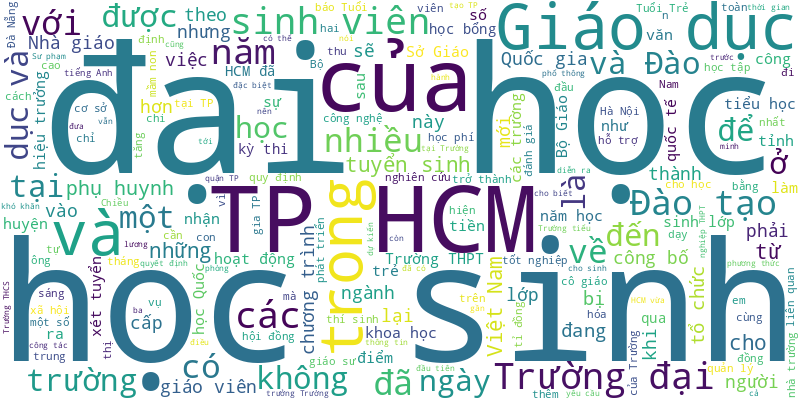
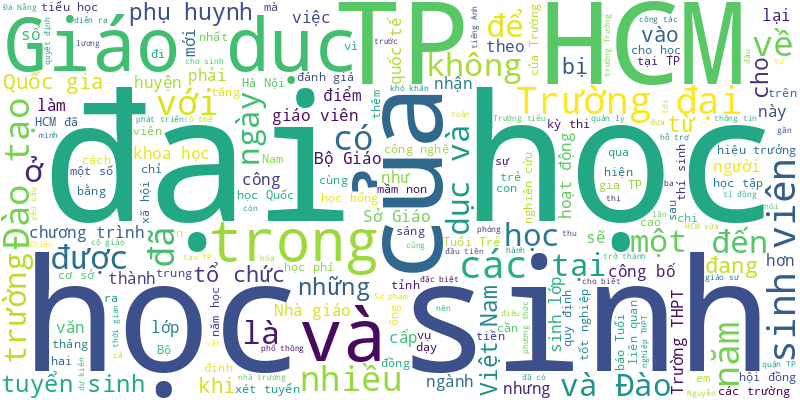
🍀 = 100%

diff --git a/README.md b/README.md
@@ -1,6 +1,13 @@
 # Tuoi Tre RSS 
 
 ## Giáo dục 
+- Học sinh Trường Quốc tế Á Châu (Asian School) đạt hai giải Nhì và ba giải Ba tại Cuộc thi Khoa học Kỹ thuật cấp thành phố.
+- Kỳ thi đánh giá tuyển sinh Công an nhân dân năm 2025 sẽ có 4 mã bài thi, thay vì 2 mã bài thi như năm ngoái.
+- Trong buổi học cuối trước Tết, Minh Đức vỡ òa cảm xúc khi biết đã đạt thành tích thủ khoa kỳ thi đánh giá tư duy đợt 1 của Đại học Bách khoa Hà Nội.
+- Trường đại học Thủ Dầu Một, tỉnh Bình Dương đã hoàn thành thủ tục hoàn trả cho hơn 10.000 sinh viên, học viên trong vụ thu sai 37 tỉ đồng học phí.
+- Để chuẩn bị cho ngọn lửa tri thức lưu truyền xuyên thế hệ, từ tháng 12-2023 Trường THPT Lê Quý Đôn TP.HCM đã có chuyến về nguồn 'vô tiền khoáng hậu'...
+- Học bổng toàn phần Chính phủ Úc dành cho ứng viên Việt Nam gồm nông - lâm - ngư nghiệp, chuyển đổi số, giáo dục, công nghệ thông tin (chỉ dành cho người khuyết tật), môi trường, biến đổi khí hậu...
+- "Vé máy bay tôi đã mua rồi, chỉ còn một ngày nữa là bay về quê. Nhưng đến hôm nay mà hai con gái của tôi vẫn giữ nguyên ý định không về quê ăn Tết".
 - Thủ khoa kỳ thi đánh giá tư duy đợt 1 năm 2025 của Đại học Bách khoa Hà Nội thuộc về thí sinh đến từ Trường THPT chuyên Bắc Ninh.
 - Người cha hy sinh trong lúc làm nhiệm vụ khi Cao Diễm Quỳnh đang học lớp 4. Vượt qua cú sốc đầu đời, Quỳnh quyết tâm, nỗ lực để học tập tốt.
 - Năm qua, sinh viên ngành Khoa học máy tính của Trường Đại học Quốc tế Sài Gòn (SIU) đạt nhiều giải thưởng tại các cuộc thi học thuật và nghiên cứu.
@@ -994,16 +1001,51 @@
 - Chủ trương đưa tiếng Anh thành ngôn ngữ thứ hai trong trường học là chủ trương đúng đắn, phù hợp với điều kiện Việt Nam trong bối cảnh toàn cầu hóa. Nhưng chủ trương này sẽ gặp không ít thách thức cần được hóa giải.
 - Vụ cô giáo 'xin' phụ huynh hỗ trợ mua laptop để giảng dạy nhanh chóng trở thành tâm điểm dư luận và dấy lên nhiều tranh luận.
 - Phiên chất vấn giả định "Quốc hội trẻ em" đặt ra vấn đề có thật, không dễ chấm dứt trong học đường.
-- Một phụ huynh lái ô tô vào sân Trường THCS-THPT Chu Văn An (TP Móng Cái, Quảng Ninh) rồi tông trúng một học sinh đi xe đạp điện.
-- Hàng chục trường hợp học sinh lái xe khi chưa đủ tuổi, không đội mũ bảo hiểm... bị cảnh sát xử lý trong chiều 1-10 tại quận Long Biên (Hà Nội).
-- Tối 1-10, Sở Giáo dục và Đào tạo TP.HCM đã công bố cấu trúc đề thi tuyển sinh lớp 10 theo chương trình mới.
-- Ngày 1-10, ông Nguyễn Quang Thạch - sáng lập phong trào Sách hóa nông thôn Việt Nam - bắt đầu hành trình đi bộ vận động Sách về nông thôn Ấn Độ lần thứ 2.
-- Sau sự việc, Phòng Giáo dục và Đào tạo huyện Thanh Oai yêu cầu học sinh không nhận đồ ăn, thức uống từ người lạ.
-- Trong khuôn khổ chuyến thăm cấp Nhà nước tới Mông Cổ, sáng 1-10, Tổng Bí thư, Chủ tịch nước Tô Lâm cùng Đoàn đại biểu cấp cao Việt Nam đã đến thăm Trường liên cấp số 14 mang tên Chủ tịch Hồ Chí Minh tại thủ đô Ulan Bator.
-- Sáng 1-10, ông Võ Cao Long - trưởng Phòng Giáo dục và Đào tạo quận 1, TP.HCM - chính thức cung cấp thông tin cho báo chí liên quan đến vụ việc cô giáo 'xin hỗ trợ mua laptop' xảy ra tại Trường tiểu học Chương Dương.
 ![Edu](Edu.png)
 ## Thời Sự 
-- Sáng 24-1 (tức ngày 25 tháng Chạp) hàng ngàn xe máy, ô tô bị ùn ứ tại hai đầu đường dẫn lên cầu Rạch Miễu.
+- Bí thư Thành ủy TP.HCM Nguyễn Văn Nên, Bộ trưởng Bộ Xây dựng Nguyễn Thanh Nghị dâng hương tại Nghĩa trang Liệt sĩ TP.HCM.
+- Chính phủ nhiệm kỳ 2021 - 2026 sẽ được tinh gọn còn 14 bộ, 3 cơ quan ngang bộ, 5 cơ quan thuộc Chính phủ.
+- Tờ mờ sáng 25-1, hơn 1.000 công nhân và gia đình về quê trong chương trình chuyến xe hạnh phúc hoàn toàn miễn phí do công đoàn tổ chức.
+- Ông Vũ Hồng Văn, phó chủ nhiệm Ủy ban Kiểm tra Trung ương, được điều động, chỉ định giữ chức Bí thư Tỉnh ủy Đồng Nai.
+- Từ đêm nay, Bắc Bộ sẽ đón đợt không khí lạnh rất mạnh, trời chuyển mưa rét. Nam Bộ thời tiết ngày nắng, Trung Bộ nhiều mây.
+- 9 chuyến xe Công đoàn xuất phát từ Bình Phước đưa hàng trăm công nhân ra các tỉnh miền Trung, miền Bắc đón Tết, sum họp cùng gia đình.
+- Trường hợp bãi rác Đa Phước ngừng nhận rác, rác sẽ được điều phối về bãi chôn lấp số 3 - khu liên hợp xử lý chất thải Tây Bắc, huyện Củ Chi (TP.HCM).
+- Cùng với sàn nhạc nước nghệ thuật, quảng trường 29-3 (Đà Nẵng) đang được tô điểm thêm màu sắc sặc sỡ của hoa Tết. Người dân tới vui chơi tấp nập.
+- Chen chúc, nhích từng chút để chờ làm thủ tục tại sân bay Tân Sơn Nhất. Bên trong nhà ga khan ghế ngồi, khách nằm vật vạ dưới đất để chờ hãng thông báo giờ bay mới sau nhiều giờ chậm chuyến (delay).
+- Trong lúc nhóm công nhân nhà máy xi măng ở Nghệ An làm việc thì xảy ra vụ tai nạn lao động làm 3 người tử vong.
+- Bộ Chính trị có quyết định điều động, phân công, bổ nhiệm ông Phạm Đại Dương - bí thư Tỉnh ủy Phú Yên - giữ chức vụ phó trưởng Ban Kinh tế Trung ương.
+- Ngày 24-1 (tức 25 tháng chạp) nhiều công ty, xí nghiệp tại TP.HCM và các tỉnh miền Đông cho công nhân bắt đầu nghỉ Tết, nhiều nhà xe tranh thủ quay đầu để kịp rước khách nên cao tốc TP.HCM - Trung Lương hướng từ các tỉnh miền Tây lên TP.HCM bị ùn ứ.
+- Vụ tai nạn liên hoàn giữa xe máy, xe ô tô, xe khách và xe tải trên quốc lộ 1 qua thị xã Ninh Hòa, Khánh Hòa làm 1 người bị thương.
+- Thủ tướng Chính phủ vừa phê chuẩn kết quả bầu chức danh phó chủ tịch UBND tỉnh Đồng Nai nhiệm kỳ 2021-2026 với ông Hồ Văn Hà, giám đốc Sở Xây dựng.
+- Thông tin từ Bộ Y tế cho hay nguyên bộ trưởng Bộ Y tế Nguyễn Quốc Triệu đã qua đời lúc hơn 17h chiều 24-1 tại Hà Nội.
+- Chiều 24-1, đám cháy lớn xuất phát từ xưởng gỗ trên đường số 7, phường Long Thạnh Mỹ, TP Thủ Đức (TP.HCM). Nhìn từ xa có thể thấy cột khói bốc cao hàng chục mét.
+- Chiều 24-1, Tổng Bí thư Tô Lâm có bài phát biểu quan trọng bế mạc Hội nghị Ban Chấp hành Trung ương Đảng khóa XIII sau gần 2 ngày làm việc.
+- Chiều 24-1, người dân bắt đầu kỳ nghỉ Tết Nguyên đán. Đường phố TP.HCM càng về chiều càng đông, cuộc xuân vận bắt đầu diễn ra.
+- Chiều 24-1 (25 tháng chạp), đại diện Phòng cảnh sát giao thông (PC08) Công an TP.HCM dự báo chiều cùng ngày và sáng mai (25-1) tình hình giao thông tại các tuyến đường dẫn lên cao tốc sẽ diễn biến phức tạp.
+- Thứ trưởng Bộ Công Thương Phan Thị Thắng lưu ý các đơn vị triển khai kế hoạch cung cấp điện vào dịp Tết Ất Tỵ và chuẩn bị từ sớm kế hoạch cung cấp điện vào mùa khô 2025 cho người dân TP.HCM.
+- Trưởng Ban Dân vận Tỉnh ủy Bắc Giang Phạm Văn Thịnh được HĐND tỉnh Bắc Giang khóa XIX bầu làm phó chủ tịch UBND tỉnh Bắc Giang.
+- Lực lượng Cảnh sát biển của Việt Nam và Campuchia mong muốn tiếp tục duy trì mối quan hệ truyền thống tốt đẹp, phối hợp giữ gìn an ninh, an toàn trên biển hai nước.
+- Kết thúc buổi làm việc cuối cùng, người dân ùn ùn rời Hà Nội để về quê nghỉ Tết. Cửa ngõ phía nam thành phố đông nghẹt người và xe.
+- Gạo, mì, nước mắm, nước tương và một số loại rau củ (bầu, bí, rau cải xanh) miễn phí đã đến tay người nghèo ở vùng đất biển Kiên Giang.
+- Tổng Bí thư Tô Lâm đề nghị khẩn trương triển khai đề án tiếp tục sắp xếp tinh gọn tổ chức bộ máy công an địa phương.
+- Trung ương Đảng cho ý kiến về giới thiệu nhân sự lãnh đạo một số cơ quan nhà nước nhiệm kỳ 2021 - 2026 để Bộ Chính trị chính thức giới thiệu Quốc hội bầu, phê chuẩn theo quy định.
+- Công an TP Đông Hà phát hiện trên một xe tải đang đỗ ở ga Đông Hà có 640 bình khí N2O (khí bóng cười).
+- Ngày 24-1, Bệnh viện Bạch Mai thông tin đang điều trị cho 32 học sinh trú tại TP Tuyên Quang nghi ngộ độc thuốc diệt chuột.
+- Người dân về quê đón Tết hoặc người lao động khi đi ngang qua tuyến quốc lộ 14B sẽ gặp một điểm hỗ trợ của cảnh sát giao thông Đà Nẵng.
+- Ngày đầu nghỉ Tết Nguyên đán Ất Tỵ, nhà thờ Con Gà Đà Nẵng rực rỡ với những nàng thơ trong tà áo dài duyên dáng.
+- Trưa 24-1, rào chắn ở nút giao Nguyễn Văn Linh - Nguyễn Hữu Thọ đã tháo dỡ, qua đó trả lại toàn bộ lối đi, hướng quận 7 đi huyện Nhà Bè.
+- Công an huyện Hàm Tân, tỉnh Bình Thuận đã thông báo kết quả xác minh giải quyết nội dung của bà Nguyễn Thị Tố Tâm tố cáo đại úy Nguyễn Thanh Bình.
+- Mỗi ngày có tới 700 xe 'quên nạp tiền' để qua trạm thu phí cao tốc TP.HCM - Long Thành - Dầu Giây, khiến tình trạng kẹt xe phức tạp hơn.
+- Sở Tài nguyên và Môi trường TP.HCM cho biết tới hôm nay tình hình hoạt động tại bãi rác Đa Phước đã ổn định.
+- Lực lượng công an ở tỉnh Quảng Nam vừa phát hiện, bắt quả tang và xử lý một tụ điểm sinh hoạt hội thánh Đức Chúa trời mẹ.
+- Giám đốc Ban điều hành dự án cầu Rạch Miễu 2 cho biết các nhà thầu đã bắt đầu thảm những mét bê tông nhựa mặt đường dẫn lên cầu.
+- Sáng 24-1, phó bí thư Thành ủy, Chủ tịch Ủy ban MTTQ Việt Nam TP.HCM Nguyễn Phước Lộc đã dự ngày hội Xuân tại TP Thủ Đức.
+- Ủy ban Kiểm tra Trung ương tổ chức hội nghị công bố về việc Trung ương bầu ông Nguyễn Duy Ngọc làm chủ nhiệm ủy ban và bầu bổ sung 2 phó chủ nhiệm ủy ban.
+- Chủ tịch nước Lương Cường đã ký quyết định truy tặng danh hiệu Anh hùng Lực lượng vũ trang nhân dân cho 8 cá nhân.
+- Những hộ dân từng di dời nhà nhường chỗ cho các dự án lớn tại TP.HCM đang hân hoan niềm vui đón cái Tết đầu tiên tại khu tái định cư.
+- Không khí lạnh mạnh tràn về khiến thời tiết miền Bắc có mưa, rét đậm trước Tết, trong Tết chỉ còn rét sâu về đêm và sáng, ngày nắng ấm.
+- Từ sáng sớm, hàng trăm tiểu thương đã có mặt tại cảng cá lớn nhất Hà Tĩnh để mua bán những mẻ cá tươi từ các tàu thuyền mới vào bờ để đem bán tại thị trường trong và ngoài tỉnh.
+- Sáng 24-1 (tức ngày 25 tháng chạp) hàng ngàn xe máy, ô tô bị ùn ứ tại hai đầu đường dẫn lên cầu Rạch Miễu.
 - Cầu phao Phong Châu (tỉnh Phú Thọ) duy trì hoạt động xuyên đêm giao thừa để phục vụ người dân vui xuân, đón Tết Ất Tỵ.
 - Việc công bố các quyết định liên quan đến sắp xếp, tinh gọn bộ máy cấp tỉnh, huyện sẽ được thực hiện từ ngày 18 đến 20-2-2025.
 - Mùa xuân đang gõ cửa mọi nhà, Tuổi Trẻ ghi lại những dòng thời sự và suy nghĩ từ quý bạn đọc, cùng nhìn lại những thay đổi trong năm qua và cùng hướng về năm mới, mong chờ những thành tựu mới trong năm 2025.
@@ -1962,48 +2004,6 @@
 - Kể từ 0h sáng 5-1, cao tốc Diễn Châu - Bãi Vọt sau hơn nửa năm thông xe sẽ đưa vào vận hành khai thác, thu phí.
 - Tỉnh Quảng Nam yêu cầu đẩy nhanh tiến độ thực hiện 3 dự án khu đô thị do Công ty Bách Đạt An làm chủ đầu tư.
 - Sáng sớm 2-1, các phường mới sau sáp nhập tại TP.HCM rộn ràng công tác tiếp đón nhân dân, khởi đầu một năm mới hoạt động 'tinh gọn, hiệu lực, hiệu quả' hơn.
-- Trong ngày đầu tiên tuyến metro số 1 (Bến Thành - Suối Tiên) áp dụng bằng thẻ từ và mã QR, đông đảo người dân đã đến để trải nghiệm sự tiện lợi của phương thức này.
-- Bị cảnh sát giao thông 'tuýt còi', nhiều người vi phạm nêu đủ mọi lý do để giải thích. Có người nói chưa nghe mức phạt mới tăng cao.
-- Làm việc online theo hướng dẫn, cô gái nhận được 148.000 đồng hoa hồng, nhưng trong 12 lần chuyển tiền sau đó bị chiếm đoạt hơn 836 triệu đồng.
-- Sau khi áp dụng nghị định 168/2024 tăng mức phạt giao thông, hy vọng người dân sẽ chạy xe cẩn thận hơn trước.
-- Cơ quan Trung ương Hội Nông dân Việt Nam sau sắp xếp, tinh gọn bộ máy giảm 7 đầu mối cấp vụ (từ 15 đầu mối xuống còn 8 đầu mối, tương đương 46,67%).
-- Bác sĩ Bệnh viện Chợ Rẫy chẩn đoán nạn nhân bị đánh ngất xỉu sau va quẹt ở Bình Dương hôn mê sâu, tiên lượng tử vong.
-- Sau hơn 12 giờ lai kéo, tàu 991, Hải đội 418, Lữ đoàn tàu ngầm 189 đã cứu hộ thành công tàu Petrolimex 11 nặng 40.000 tấn gặp nạn.
-- Ông Nguyễn Việt Oanh - phó bí thư Tỉnh ủy - được bầu giữ chức chủ tịch UBND tỉnh Bắc Giang và bà Nguyễn Thị Hương - phó bí thư thường trực Tỉnh ủy - được bầu giữ chức chủ tịch HĐND tỉnh, nhiệm kỳ 2021-2026.
-- Sáng 2-1, Bộ Quốc phòng đã tổ chức trao quyết định của Chủ tịch nước cho 8 sĩ quan quân đội lên đường đi làm nhiệm vụ gìn giữ hòa bình Liên hợp quốc tại các phái bộ thuộc Nam Sudan và Cộng hòa Trung Phi.
-- Ban chỉ đạo xây dựng và phát triển Trung tâm tài chính TP.HCM được thành lập do Bí thư Thành ủy TP.HCM Nguyễn Văn Nên làm trưởng ban, với 29 thành viên.
-- Xe bán tải đang chạy trên cao tốc TP.HCM - Long Thành - Dầu Giây, đoạn qua TP Thủ Đức (TP.HCM) bất ngờ bốc cháy dữ dội. May mắn là tài xế kịp đánh xe vào làn khẩn cấp.
-- Sáng 2-1, Thủ tướng Phạm Minh Chính đã chủ trì phiên họp thứ 7 về 'Tổng kết việc thực hiện nghị quyết số 18-NQ/TW Trung ương khóa XII về tiếp tục đổi mới, sắp xếp tổ chức bộ máy của hệ thống chính trị tinh gọn, hoạt động hiệu lực, hiệu quả'.
-- Trước tình trạng một số bệnh viện xuống cấp trầm trọng, Sở Y tế TP.HCM đề xuất ưu tiên nâng cấp, cải tạo, xây mới ba bệnh viện để nâng cao chất lượng khám, chữa bệnh.
-- Lần đầu tiên Bộ Tài nguyên và Môi trường công bố kịch bản nguồn nước ở một số lưu vực sông lớn. Vì sao?
-- Những trường hợp vi phạm đều được cảnh sát giao thông TP.HCM xử lý nghiêm và không có ngoại lệ với bất kỳ trường hợp nào.
-- Nhiều shipper để hàng hóa trên xe che khuất biển số bị cảnh sát giao thông TP.HCM lập biên bản, hành vi này mới được áp dụng trong nghị định 168/2024.
-- Công an đang điều tra nghi án xe tải chở củi gây tai nạn chết người ở Bình Phước đã rời khỏi hiện trường, vượt gần 150km đến Đồng Nai giao hàng.
-- Năm 2024, thu ngân sách quận Bình Tân (TP.HCM) đạt hơn 5.000 tỉ đồng (đạt 135,5% chỉ tiêu) và giải ngân đầu tư công đạt hơn 3.200 tỉ (đạt 100,45% kế hoạch).
-- UBND TP.HCM vừa có chỉ thị về tăng cường kỷ cương hành chính, quyết tâm hoàn thành nhiệm vụ phát triển kinh tế - xã hội năm 2025 với mục tiêu tăng trưởng trên hai con số.
-- Có 62 bệnh, nhóm bệnh được đến thẳng tuyến cuối, không cần giấy chuyển viện và người bệnh vẫn được hưởng 100% bảo hiểm y tế.
-- Chánh thanh tra Công an tỉnh Quảng Nam được Bộ Công an bổ nhiệm giữ chức phó giám đốc Công an tỉnh này.
-- Chính quyền TP Đà Nẵng vừa ban hành kế hoạch hợp nhất 10 sở, chuyển 2 đơn vị về Sở Công Thương và giải thể Nhà xuất bản Đà Nẵng.
-- Người dân 41 phường mới tại TP.HCM (sau khi sắp xếp từ 80 phường) sẽ được tạo điều kiện điều chỉnh giấy tờ mà không mất các loại thuế, phí.
-- Giấy chuyển tuyến một năm/lần có giá trị hết năm dương lịch nhưng hiện loại giấy này sẽ có giá trị một năm kể từ ngày ký. Bên cạnh đó, danh mục bệnh được cấp giấy chuyển viện năm cũng được nâng lên 141 bệnh, trước đó là 62 bệnh.
-- Mâu thuẫn trên mạng xã hội, nhóm 30 thanh thiếu niên ở các nơi cầm theo dao phóng lợn, bom xăng chạy xe máy tới Hội An tìm đối thủ. Công an đã truy xét, khởi tố 8 người.
-- Lê Văn Hiền, 36 tuổi, đánh người sau va quẹt giao thông khiến nạn nhân nguy kịch, đã bị Công an Bình Dương xác định danh tính, bắt khẩn cấp.
-- Sáng 2-1, Tòa án nhân dân TP.HCM mở phiên tòa xét xử vụ án lừa đảo chiếm đoạt tài sản liên quan đến bà Phạm Thị Tuyết Nhung (giám đốc Công ty Angel Lina) và đồng phạm.
-- Sau 20 năm phát triển, TP Tuy Hòa (tỉnh Phú Yên) hướng tới xây dựng đô thị thông minh, có bản sắc và là địa phương có chỉ số hạnh phúc cao trong khu vực.
-- Từ ngày 1-1-2025, nhiều lỗi giao thông sẽ bị tịch thu xe. Đó là những lỗi nào?
-- Bộ Y tế đã ra hướng dẫn về quy định người dân khám, chữa bệnh không đúng nơi đăng ký ban đầu do thay đổi nơi tạm trú, lưu trú, theo Luật Bảo hiểm y tế.
-- Bị can là Nguyễn Trần Khánh Huy, 25 tuổi, ngụ xã Giai Xuân, huyện Phong Điền, TP Cần Thơ, bị bắt khi đang lẩn trốn tại tỉnh Quảng Trị.
-- Tại dự thảo nghị định, Bộ Quốc phòng đã đề xuất các tiêu chí, tiêu chuẩn xét thăng quân hàm cấp tướng vượt bậc, trước thời hạn sĩ quan quân đội.
-- Điểm của giấy phép lái xe được dùng để quản lý việc chấp hành pháp luật về trật tự, an toàn giao thông đường bộ của người lái xe.
-- Lợi dụng được cấp phép kinh doanh trò chơi điện tử có thưởng cho người nước ngoài, câu lạc bộ Diamond (khách sạn Ramana ở quận 3, TP.HCM) tổ chức cho người Việt đánh bạc trái phép.
-- Sáng 2-1, đường phố Hà Nội đông đúc, có lúc ùn tắc nhưng đại đa số người dân đều chấp hành nghiêm túc hiệu lệnh của đèn tín hiệu. Một số người vượt đèn đỏ bị cảnh sát xử phạt.
-- Cục Cảnh sát giao thông cho biết qua phản ánh của người dân, tại một số đường có hiện tượng đèn tín hiệu "đang xanh bất ngờ đỏ".
-- Dự án xây dựng Trung tâm hành chính TP Nha Trang hiện đứng hình vì chưa có quy hoạch phân khu. Sáu cơ quan đang hoạt động ở nhà thuê.
-- Một số tin tức đáng chú ý: Một công ty ở Hưng Yên lãnh phạt vì báo cáo lỗ thành lãi; Nhà sản xuất 'Anh trai vượt ngàn chông gai' rút khỏi hai công ty con; Vi phạm hành chính trong kinh doanh bảo hiểm có thể bị phạt tới 200 triệu đồng...
-- Hôm nay 2-1, thời tiết Nam Bộ mưa nhiều hơn những ngày qua, cùng đó triều cường cũng dâng cao. Bắc Bộ lạnh, còn Trung Bộ mưa rào đến mưa vừa.
-- Sau khi hoàn thành căn nhà, nam thợ hồ được chủ nhà mời ở lại nhậu. Khi ra về, thợ hồ này bị cảnh sát giao thông TP Thủ Đức kiểm tra, lập biên bản, trừ 10 điểm giấy phép lái xe.
-- Người cung cấp thông tin vi phạm hành chính về trật tự an toàn giao thông được hỗ trợ tối đa 5 triệu đồng/vụ việc.
-- Công an quận 1 (TP.HCM) đã bắt hai vợ chồng đánh người trên đường Lê Duẩn tối 31-12 để điều tra hành vi "gây rối trật tự công cộng".
 ![New](News.png)
 ## Nhịp sống số 
 - Hiệp hội An ninh mạng quốc gia vừa công bố thành lập Liên minh ứng phó, khắc phục sự cố an ninh mạng quốc gia.
